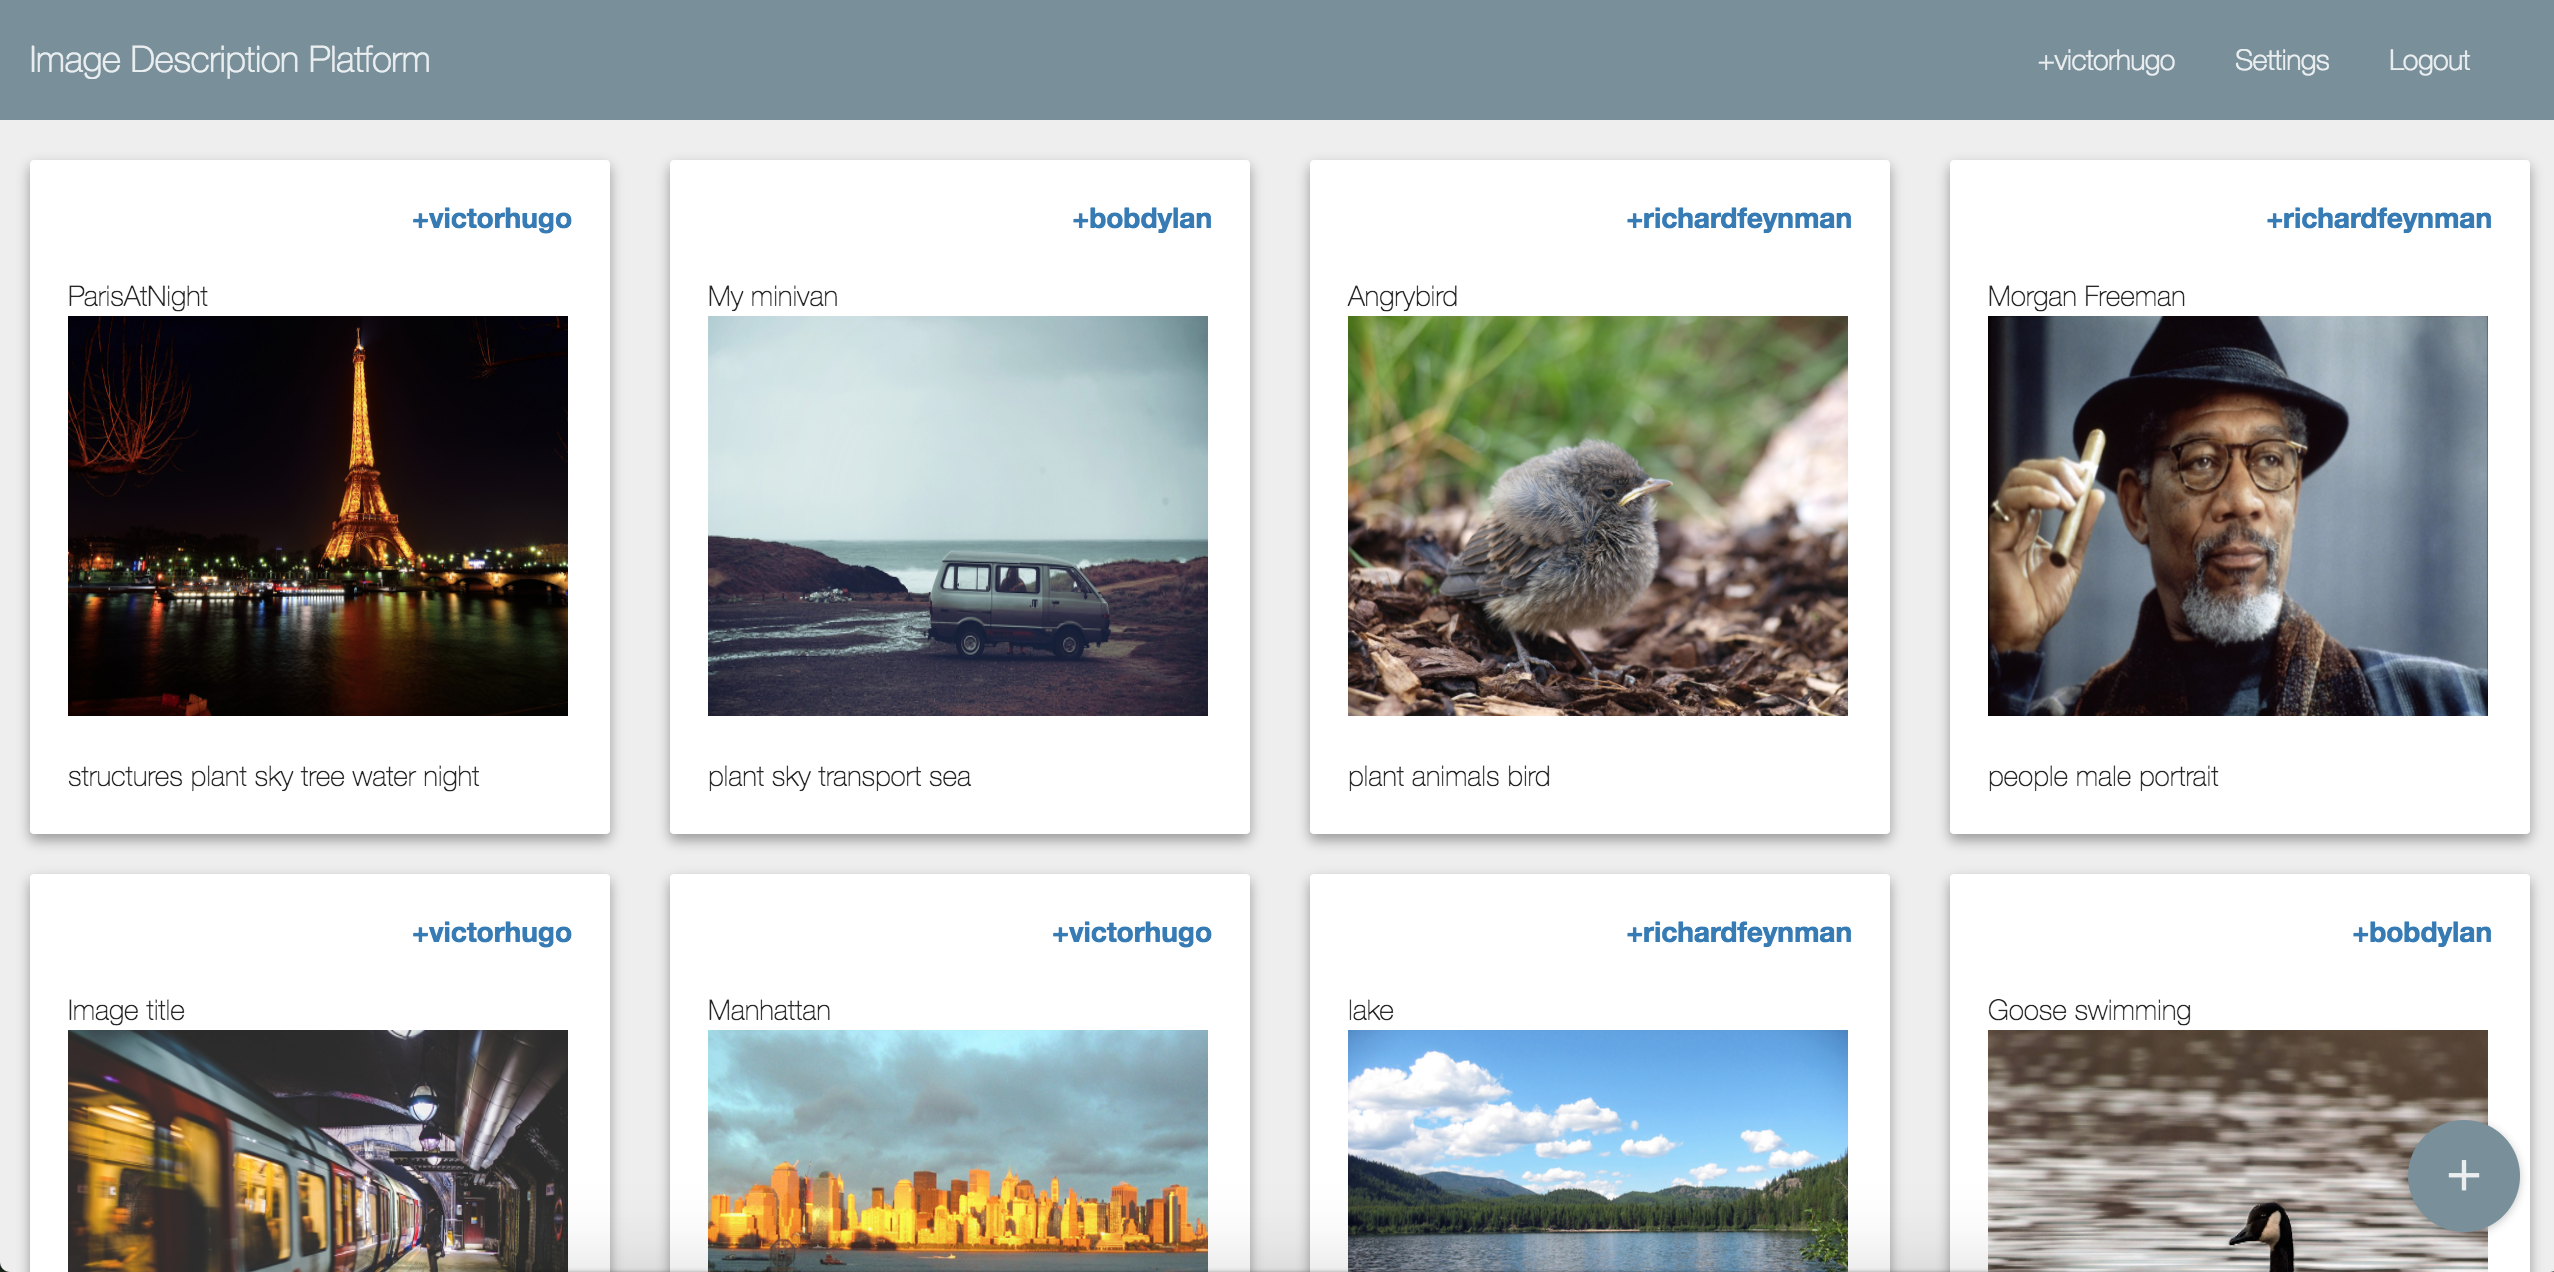
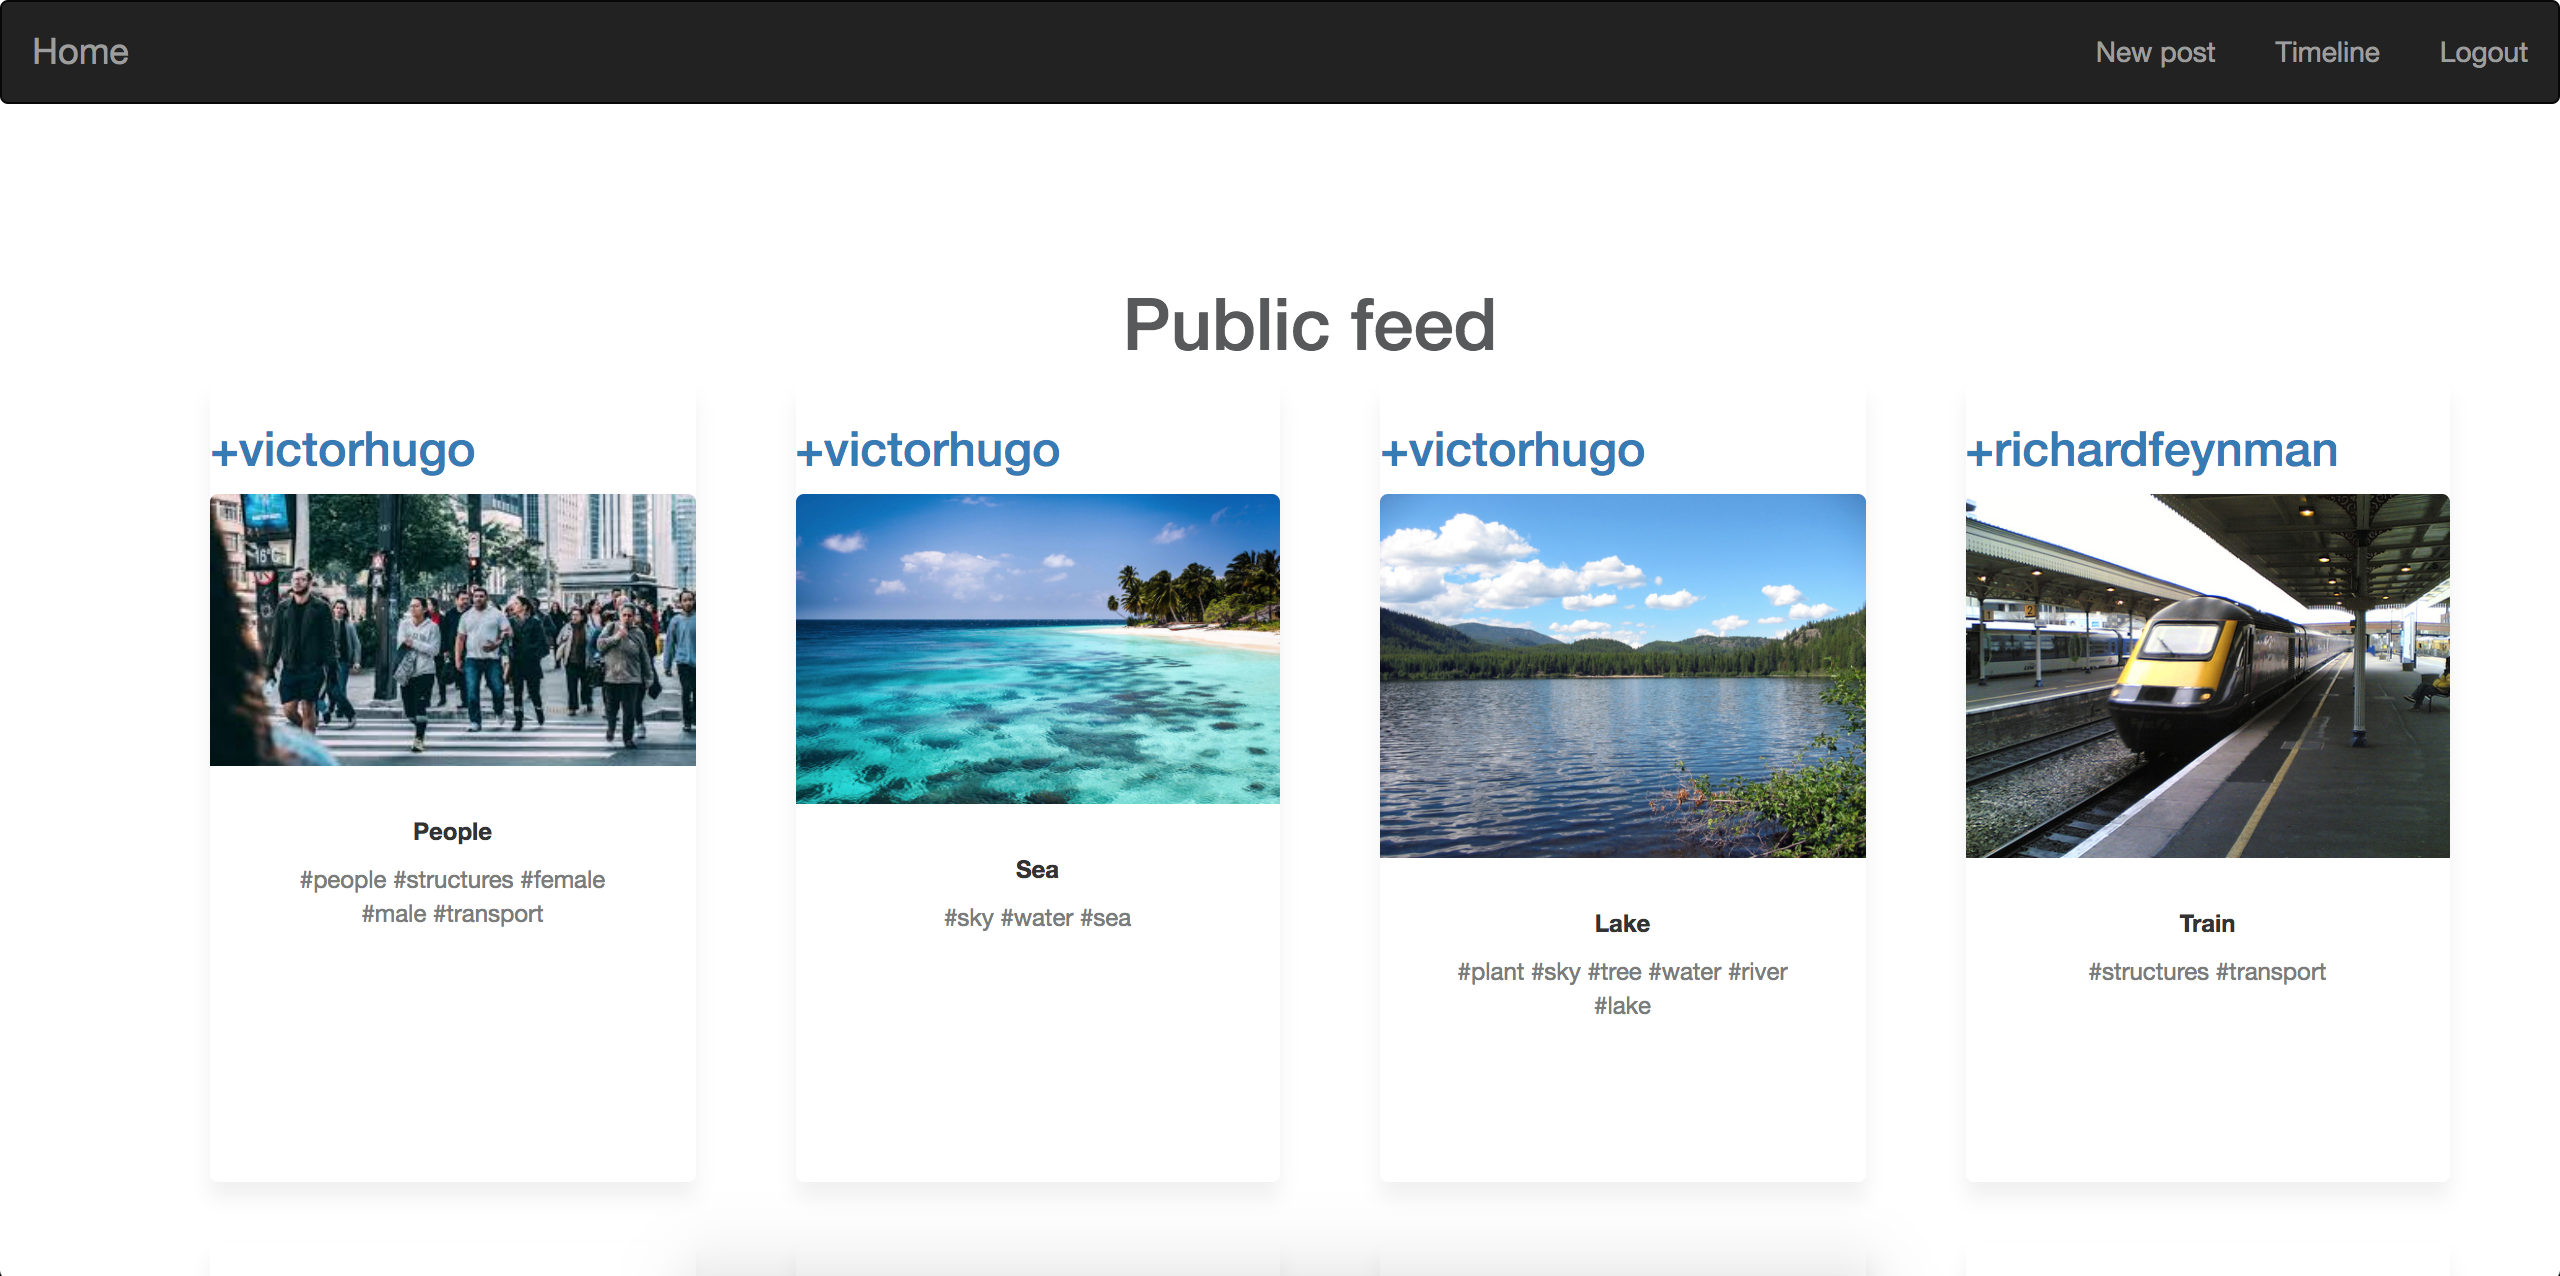
fixes

diff --git a/flask_platform/app/templates/grid.html b/flask_platform/app/templates/grid.html
@@ -11,22 +11,28 @@
     <div class="row">
 
       {% for post in posts %}
-        <div class="col-sm-6 col-md-4">
-            <div class="thumbnail">
-                <h3>+{{ post.author.username }}</h3>
-                <a class="lightbox" href="#">
-                    <img src="{{ url_for('cdn_media', filename=post.image)}}">
-                </a>
+        <div class="col-sm-6 col-md-3">
+            <div class="thumbnail" height="400">
+                <a href="{{ url_for('timeline', username=post.author.username)}}"><h3>+{{ post.author.username }}</h3></a>
+                <div class="lightbox">
+                    <img class="img-responsive" src="{{ url_for('cdn_media', filename=post.image)}}" style="width:100%">
+                </div>
                 <div class="caption">
-                    <h2>{{ post.title }}</h2>
-                    <p>{{ post.annotation }}</p>
+                    <h3>{{ post.title }}</h3>
+                    <p>{{ post.tags }}</p>
                 </div>
             </div>
         </div>
+
       {% endfor %}
 
     </div>
   </div>
 </div>
+
+<script src="https://cdnjs.cloudflare.com/ajax/libs/baguettebox.js/1.8.1/baguetteBox.min.js"></script>
+<script>
+    baguetteBox.run('.tz-gallery');
+</script>
 
 {% endblock %}

diff --git a/flask_platform/app/templates/register.html b/flask_platform/app/templates/register.html
@@ -3,27 +3,27 @@
 {% block content %}
 
 <h1>Register</h1>
-  <form action="" method="POST">
+  <form action="" method="POST" class="form">
     {{ form.hidden_tag() }}
     <p>
       <br>{{ form.username.label }}</br>
       {{ form.username(size=32) }}
       {% for error in form.username.errors %}
-      <span style="color: red;">[{{ error }}]</span>
+      <span style="color: red;">{{ error }}</span>
       {% endfor %}
     </p>
     <p>
       <br>{{ form.email.label }}</br>
       {{ form.email(size=64) }}
       {% for error in form.email.errors %}
-      <span style="color: red;">[{{ error }}]</span>
+      <span style="color: red;">{{ error }}</span>
       {% endfor %}
     </p>
     <p>
       {{ form.password.label }}<br>
       {{ form.password(size=32) }}<br>
       {% for error in form.password.errors %}
-      <span style="color: red;">[{{ error }}]</span>
+      <span style="color: red;">{{ error }}</span>
       {% endfor %}
     </p>
     <p>{{ form.submit() }}</p>

diff --git a/flask_platform/app/static/css/thumbnail-gallery.css b/flask_platform/app/static/css/thumbnail-gallery.css
@@ -9,7 +9,7 @@ body {
     min-height: 100vh;
     font-family: 'Lato', sans-serif !important;
     font: normal 16px helvetica;
-    background-color: #f9f9f9;
+    background-color: ##f3f5f6;
 }
 
 .gallery-container h1 {
@@ -25,13 +25,12 @@ body {
     color: #85878c;
 }
 
-.tz-gallery {
-    padding: 40px;
-}
-
 .tz-gallery .thumbnail {
+    float: left;
     padding: 0;
     margin-bottom: 30px;
+    margin-left: 20px;
+    height: 400px;
     background-color: #fff;
     border-radius: 4px;
     border: none;
@@ -53,7 +52,7 @@ body {
 }
 
 .tz-gallery .caption h3 {
-    font-size: 14px;
+    font-size: 12px;
     font-weight: bold;
     margin-top: 0;
 }

diff --git a/flask_platform/app/templates/login.html b/flask_platform/app/templates/login.html
@@ -3,6 +3,11 @@
 {% block content %}
 
 <h1>Login</h1>
+<p>Default user:</p>
+<ul>
+  <li>email: user@email.com</li>
+  <li>password: user</li>
+</ul>
   <form action="" method="POST">
     {{ form.hidden_tag() }}
     <p>

diff --git a/flask_platform/app/routes.py b/flask_platform/app/routes.py
@@ -1,5 +1,6 @@
 import os
 import pdb
+import requests
 from flask import render_template, redirect, url_for, request, flash, send_from_directory
 from flask_login import current_user, login_user, logout_user, login_required
 from werkzeug.utils import secure_filename
@@ -9,6 +10,8 @@ from .utils import *
 from app import app, db, jinja_env
 from app.models import User, Post
 from app.forms import RegistrationForm, LoginForm, PostForm
+
+URL_PREDSERVER = 'http://127.0.0.1:8080/predict'
 
 ABS_MEDIA_DIR = os.path.join(app.config['SRCDIR'], app.config['MEDIADIR'])
 if not os.path.isdir(ABS_MEDIA_DIR):
@@ -98,8 +101,14 @@ def newpost():
         filename = str(gen_uuid()) + '.' + filename.split('.')[-1]
         abspath = os.path.join(ABS_MEDIA_DIR, filename)
         f.save(abspath)
-        #TODO call pred server
-        p = Post(title=form.title.data, image=filename, user_id=current_user.id)
+        # call pred server
+        data = {'files':open(abspath, 'rb')}
+        resp = requests.post(URL_PREDSERVER, files=data)
+        labels = ''
+        if resp.content:
+            labels = resp.json()['labels']
+            labels = ' '.join(['#' + l for l in labels])
+        p = Post(title=form.title.data, image=filename, user_id=current_user.id, tags=labels)
         db.session.add(p)
         db.session.commit()
         return redirect(url_for('index'))

diff --git a/flask_platform/app/forms.py b/flask_platform/app/forms.py
@@ -1,4 +1,5 @@
 import re
+import pdb
 from flask_wtf import FlaskForm
 from wtforms import StringField, PasswordField, BooleanField, SubmitField
 from flask_wtf.file import FileField, FileRequired
@@ -13,7 +14,7 @@ class RegistrationForm(FlaskForm):
     submit = SubmitField('Register')
 
     def validate_username(self, username):
-        if not re.match('^[\w\d]*$', username):
+        if not re.match('^[\w\d]*$', username.data):
             raise ValidationError('Only letters and numbers allowed')
         user = User.query.filter_by(username=username.data).first()
         if user is not None:

diff --git a/ml_core/configuration.py b/ml_core/configuration.py
@@ -61,7 +61,7 @@ class ServerConfig(object):
 
         self.model_checkpoint = path.join(dirname,"models/prod_model/model.ckpt")
 
-        self.vocab_file = path.join(dirname,"data/word_counts.txt")
+        self.vocab_file = path.join(dirname,"models/prod_model/word_counts.txt")
 
         ## model ##
         self.mode = "inference"

diff --git a/flask_platform/webserver.py b/flask_platform/webserver.py
@@ -5,3 +5,6 @@ from app.models import User, Post
 @app.shell_context_processor
 def make_shell_context():
     return {'db': db, 'User': User, 'Post': Post}
+
+if __name__ == '__main__':
+    app.run(host='127.0.0.1', port=5000)

diff --git a/ml_core/evaluate.py b/ml_core/evaluate.py
@@ -10,7 +10,7 @@ from MLmodel import MLClassifier
 
 BOTTLENECK_DIR = "data/bottlenecks"
 TFR_DIR = "data/output"
-TEST_FILE_PATTERN = "test-???-003.tfr"
+TEST_FILE_PATTERN = "test-???-004.tfr"
 
 
 BATCH_SIZE = 100

diff --git a/ml_core/train.py b/ml_core/train.py
@@ -13,7 +13,7 @@ BOTTLENECK_DIR = "data/bottlenecks"
 TRAIN_FILE_PATTERN = "train-???-008.tfr"
 VAL_FILE_PATTERN = "val-???-001.tfr"
 
-NUM_EPOCH = 10
+NUM_EPOCH = 1
 BATCH_SIZE = 64
 
 

diff --git a/README.md b/README.md
@@ -123,39 +123,31 @@ Below is an example of prediction
 
 <img src="https://raw.githubusercontent.com/Nlte/social-image-platform/master/docs/frontpage.png" />
 
-
-The website was built with the Django-Angular stack. There is no need to train a model before running the server. A pretrained model has already been saved in the repo.
-
-Requirements :
-- Django (tested on 1.10.2)
-- djangorestframework (tested on 3.5.0)
-- drf-nested-routers (tested on 0.11.1)
-- Pillow (tested on 5.0.0)
-- requests (test on 2.18.4)
-- tensorflow (tested on 1.5) [[installation guide]](https://www.tensorflow.org/versions/r0.11/get_started/os_setup.html)
-- nodejs [[download-page]](https://nodejs.org/en/download/)
+The website was built using Flask.
 
 It is preferable to create a virtual environment before proceeding to the installation of the website.
 ```sh
-virtualenv -p python3 ~/virtualenvs/img-platform/
-source ~/virtualenvs/img-platform/bin/activate
+# at the root of the repository
+virtualenv -p python3 env
+source env/bin/activate
 ```
-To install the webserver
+To install the requirements
 ```sh
-cd img_platform/
-pip install -r requirements.txt  # install the django+packages
-sudo npm install -g bower  # install bower package manager
-npm install
-bower install
+pip install -r requirements.txt
 ```
-To run the servers
+We can then start the two servers:
+- `predserver.py` located in ml_core, responsible for the tag prediction
+- `webserver.py` located in flask_platform, that runs the website
 ```sh
 # in one terminal run the prediction server
 cd ml_core/
-python server.py
+python predserver.py # the initialization can take a few seconds
 # in another terminal run the webserver
 cd img_platform/
-python manage.py runserver
+python webserver.py
 ```
 
-After the initialization of the tensorflow model and the django server are done. We can navigate to `127.0.0.1:8000` and play with the website.
+After the initialization of the tensorflow model and the flask server are done. We can navigate to `127.0.0.1:5000` and play with the website.
+The credentials for the default user are:
+- email: victorhugo@email.com
+- password: victor
